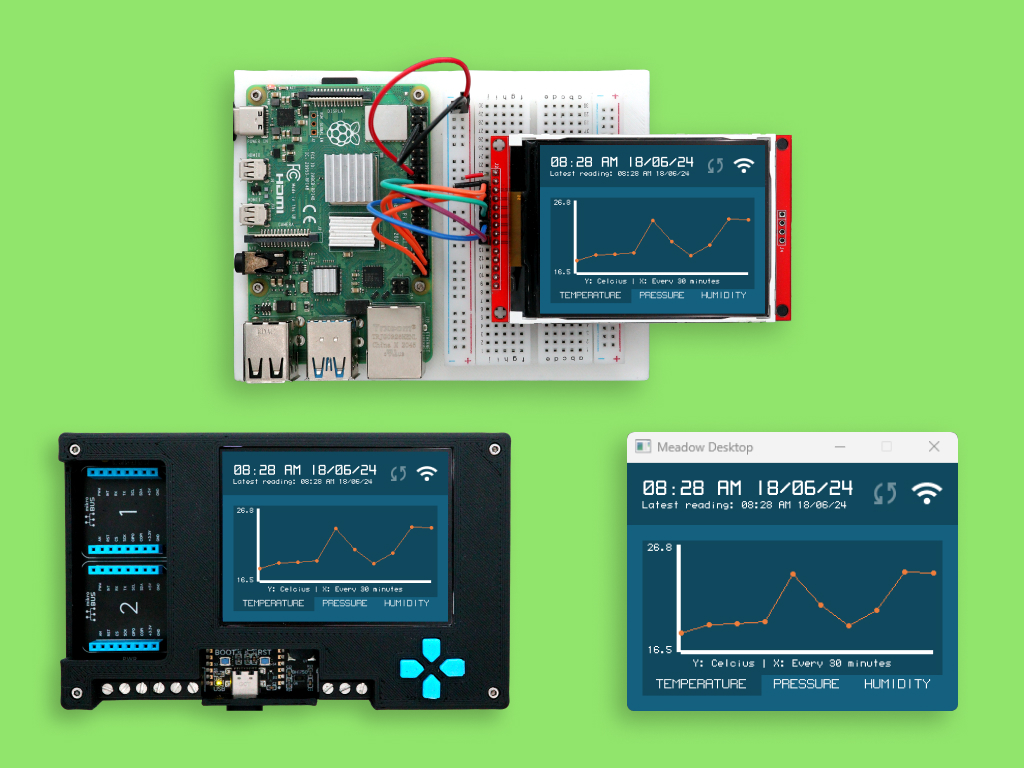
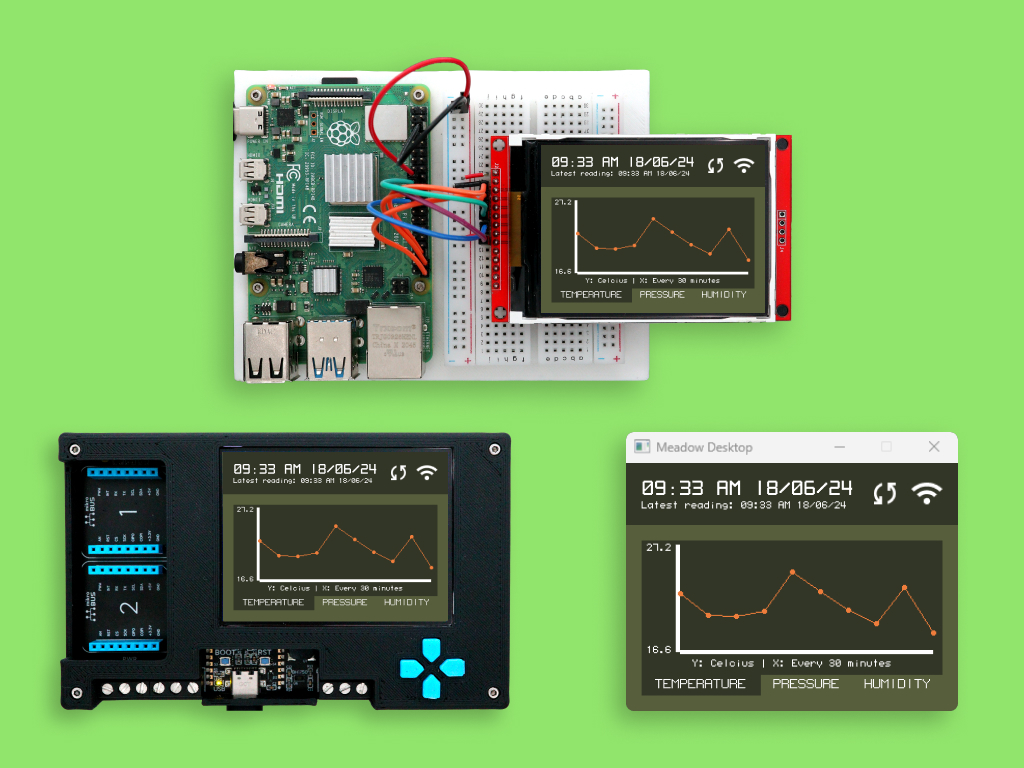
Another update

Changed region(s): [[0.5938, 0.5625, 0.9375, 0.9375], [0.5, 0.1875, 0.75, 0.4062], [0.2188, 0.5625, 0.4375, 0.8125]]

diff --git a/Source/MultiPlatform/AmbientMonitor/AmbientMonitor.Core/Controllers/DisplayController.cs b/Source/MultiPlatform/AmbientMonitor/AmbientMonitor.Core/Controllers/DisplayController.cs
@@ -14,8 +14,8 @@ public class DisplayController
     private readonly int margin = 15;
 
     private Color TextColor = Color.White;
-    private Color backgroundColor = Color.FromHex("14607F");
-    private Color foregroundColor = Color.FromHex("10485E");
+    private Color backgroundColor = Color.FromHex("575E3C");
+    private Color foregroundColor = Color.FromHex("323626");
     private Color chartCurveColor = Color.FromHex("EF7D3B");
 
     private Font6x8 font6x8 = new Font6x8();
@@ -64,10 +64,10 @@ public class DisplayController
             IsVisible = false
         };
 
-        var image = Image.LoadFromResource("AmbientMonitor.Core.Assets.img_meadow.bmp");
+        var image = Image.LoadFromResource("AmbientMonitor.Core.Resources.img_meadow.bmp");
         var displayImage = new Picture(0, 0, displayScreen.Width, displayScreen.Height, image)
         {
-            BackColor = Meadow.Color.FromHex("14607F"),
+            BackColor = Meadow.Color.FromHex("575E3C"),
             HorizontalAlignment = HorizontalAlignment.Center,
             VerticalAlignment = VerticalAlignment.Center,
         };
@@ -106,7 +106,7 @@ public class DisplayController
         };
         dataLayout.Controls.Add(latestReading);
 
-        var wifiImage = Image.LoadFromResource("AmbientMonitor.Core.Assets.img_wifi_connecting.bmp");
+        var wifiImage = Image.LoadFromResource("AmbientMonitor.Core.Resources.img-wifi-fade.bmp");
         wifiStatus = new Picture(displayScreen.Width - wifiImage.Width - margin, 0, wifiImage.Width, rowHeight, wifiImage)
         {
             HorizontalAlignment = HorizontalAlignment.Center,
@@ -114,7 +114,7 @@ public class DisplayController
         };
         dataLayout.Controls.Add(wifiStatus);
 
-        var syncImage = Image.LoadFromResource("AmbientMonitor.Core.Assets.img_refreshed.bmp");
+        var syncImage = Image.LoadFromResource("AmbientMonitor.Core.Resources.img-sync-fade.bmp");
         syncStatus = new Picture(displayScreen.Width - syncImage.Width - wifiImage.Width - margin * 2, 0, syncImage.Width, rowHeight, syncImage)
         {
             HorizontalAlignment = HorizontalAlignment.Center,
@@ -278,8 +278,8 @@ public class DisplayController
     public void UpdateWiFiStatus(bool isConnected)
     {
         var imageWiFi = isConnected
-            ? Image.LoadFromResource("AmbientMonitor.Core.Assets.img_wifi_connected.bmp")
-            : Image.LoadFromResource("AmbientMonitor.Core.Assets.img_wifi_connecting.bmp");
+            ? Image.LoadFromResource("AmbientMonitor.Core.Resources.img-wifi.bmp")
+            : Image.LoadFromResource("AmbientMonitor.Core.Resources.img-wifi-fade.bmp");
         wifiStatus.Image = imageWiFi;
 
         if (!isConnected && lineChartSeries.Points.Count == 0)
@@ -295,8 +295,8 @@ public class DisplayController
     public void UpdateSyncStatus(bool isSyncing)
     {
         var imageSync = isSyncing
-            ? Image.LoadFromResource("AmbientMonitor.Core.Assets.img_refreshing.bmp")
-            : Image.LoadFromResource("AmbientMonitor.Core.Assets.img_refreshed.bmp");
+            ? Image.LoadFromResource("AmbientMonitor.Core.Resources.img-sync-fade.bmp")
+            : Image.LoadFromResource("AmbientMonitor.Core.Resources.img-sync.bmp");
         syncStatus.Image = imageSync;
     }
 }
